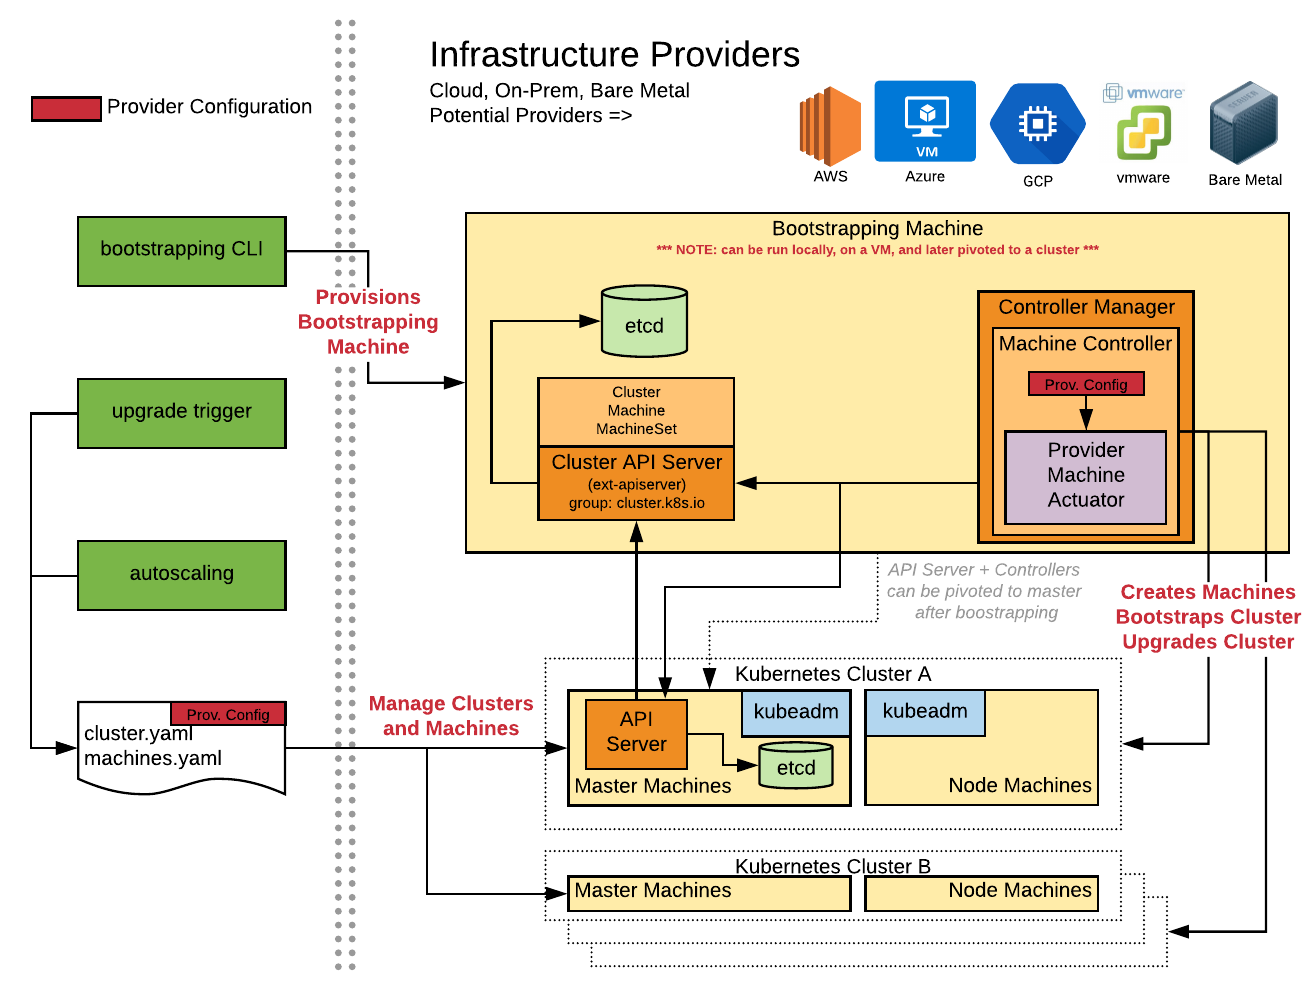
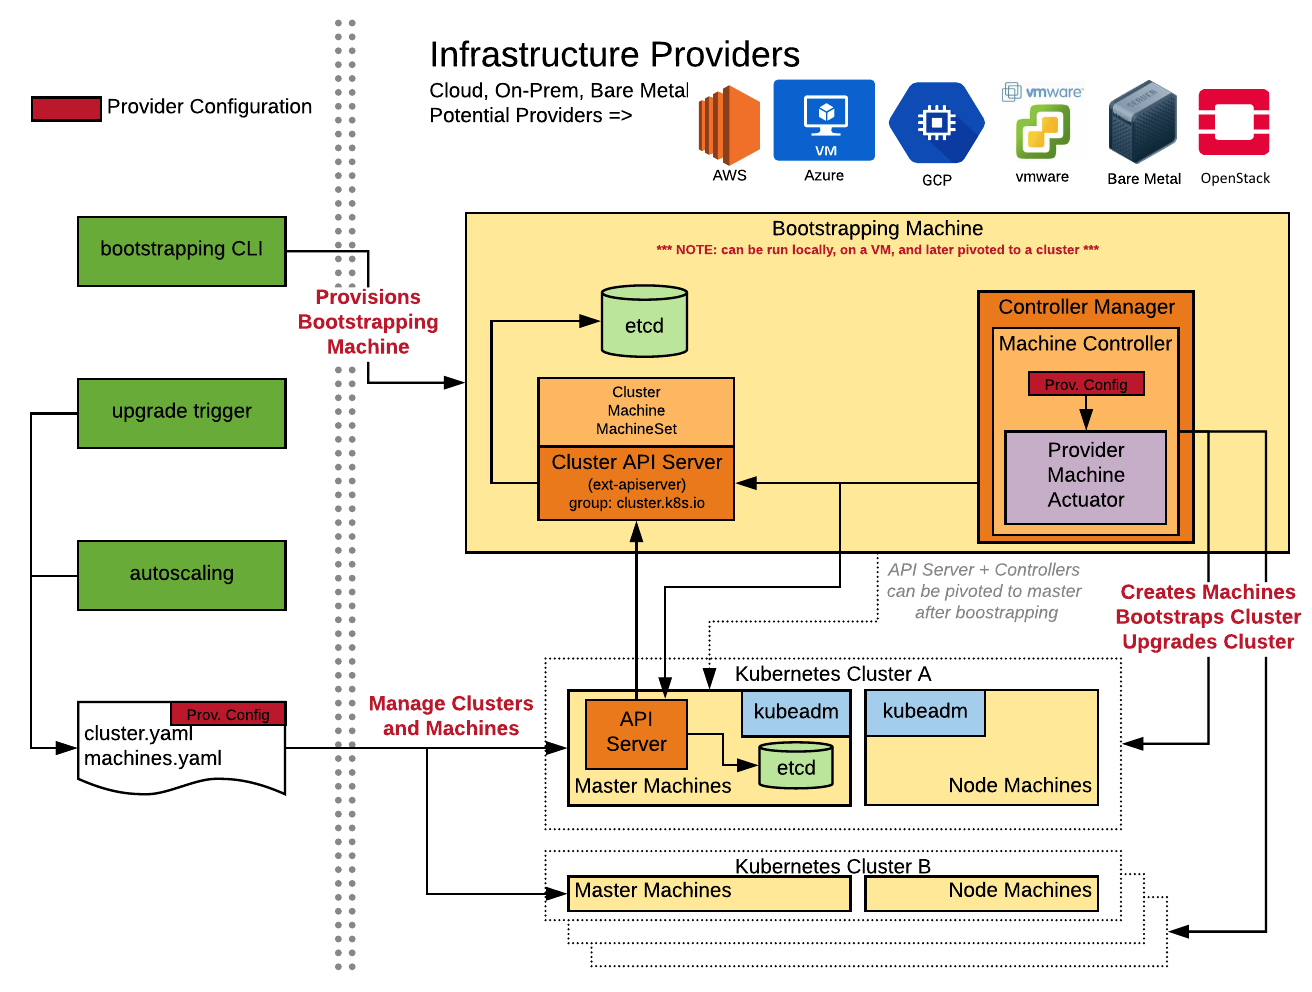
indicate openstack provider implementation is in progress

Changed region(s): [[0.5312, 0.0625, 1.0, 0.1875]]

diff --git a/clusterctl/cmd/create_cluster.go b/clusterctl/cmd/create_cluster.go
@@ -109,7 +109,7 @@ func init() {
 	createClusterCmd.Flags().StringVarP(&co.Machine, "machines", "m", "", "A yaml file containing machine object definition(s)")
 	createClusterCmd.Flags().StringVarP(&co.ProviderComponents, "provider-components", "p", "", "A yaml file containing cluster api provider controllers and supporting objects")
 	// TODO: Remove as soon as code allows https://github.com/kubernetes-sigs/cluster-api/issues/157
-	createClusterCmd.Flags().StringVarP(&co.Provider, "provider", "", "", "Which provider deployment logic to use (google/vsphere/azure)")
+	createClusterCmd.Flags().StringVarP(&co.Provider, "provider", "", "", "Which provider deployment logic to use (google/vsphere/azure/openstack)")
 
 	// Optional flags
 	createClusterCmd.Flags().StringVarP(&co.AddonComponents, "addon-components", "a", "", "A yaml file containing cluster addons to apply to the internal cluster")
@@ -163,6 +163,9 @@ func getProvider(provider string) (clusterdeployer.ProviderDeployer, error) {
 	case "azure":
 		//Work being done at https://github.com/platform9/azure-provider
 		return nil, errors.New("Azure not yet implemented")
+	case "openstack":
+		//Work being done at https://github.com/kubernetes-sigs/cluster-api-provider-openstack
+		return nil, errors.New("OpenStack not yet implemented")
 	default:
 		return nil, fmt.Errorf("Unrecognized provider %v", provider)
 	}
